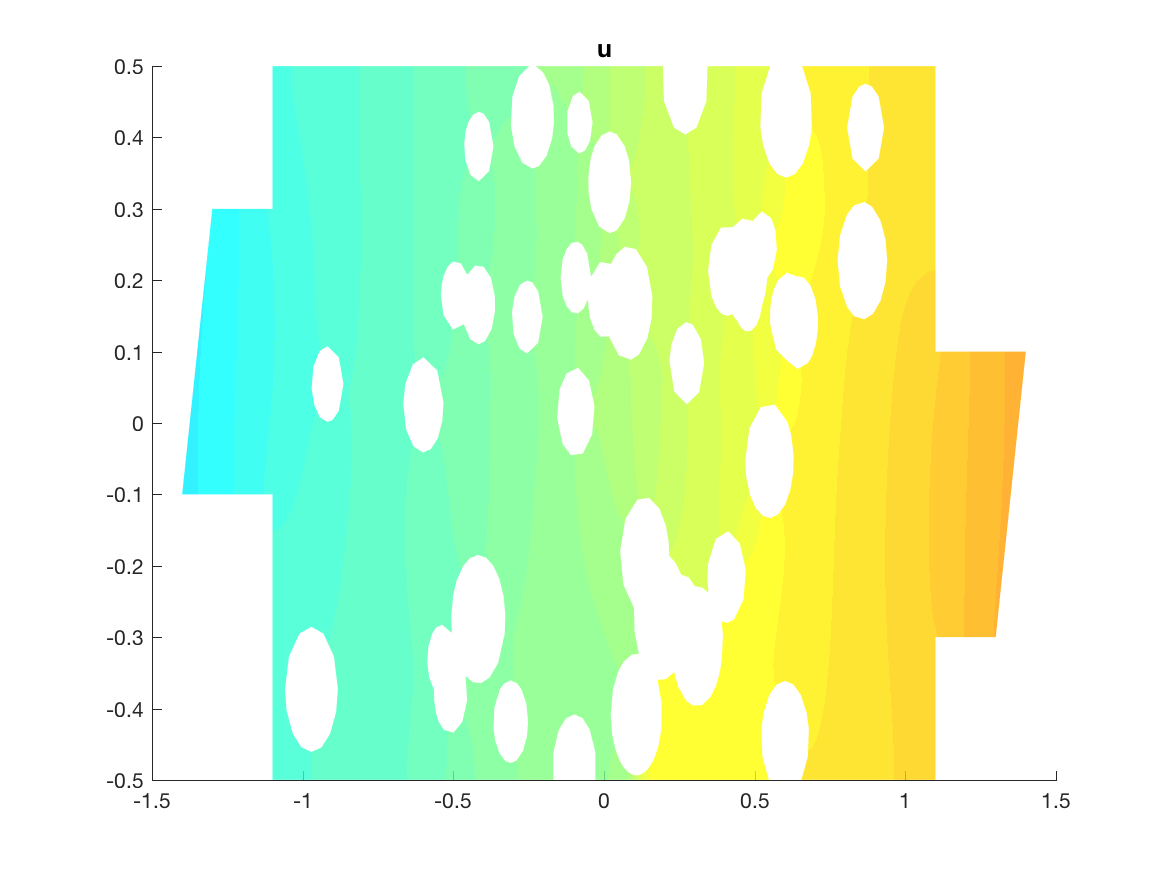
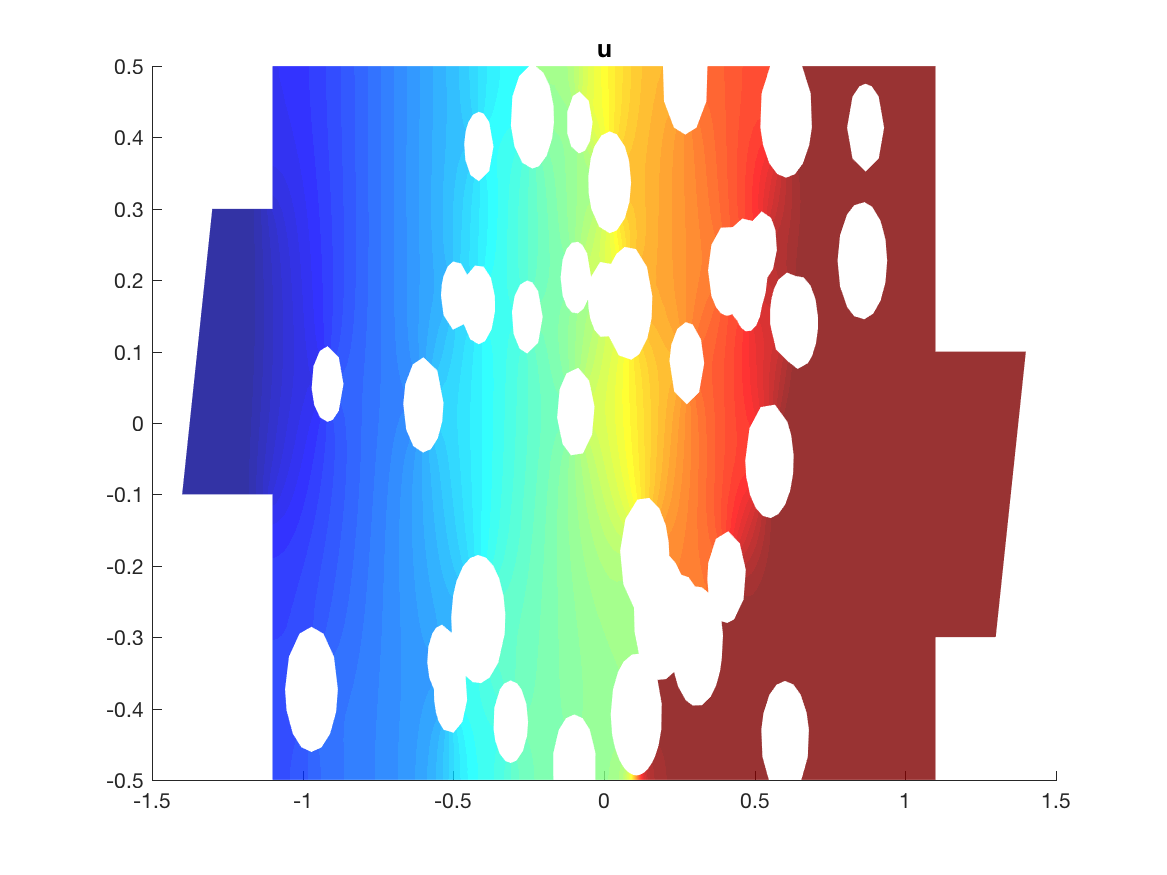
works for quadratic elements quadratic vtk to be finished

diff --git a/Functions_FEM/Neumann.m b/Functions_FEM/Neumann.m
@@ -10,35 +10,29 @@ for j = 1:2
         g = 1;
     end
     if elementDegree ==1
-        for i = 1:(size(Nborder,1)-1)
+        for i = 1:(size(Nborder,1))
             fe = zeros(2,1);
-            X1 = X(Nborder(i),:);
-            X2 = X(Nborder(i+1),:);
-            lengthSide = norm(X2-X1);
+            X1 = X(Nborder(i,1),:);
+            X2 = X(Nborder(i,2),:);
+            
             nIntPoints = 1;
             shapeFun = ShapeFunc1D(elementDegree);
             zgp = shapeFun.zgp; 
             wgp = shapeFun.wgp; 
             N = shapeFun.N; 
             Nxi =shapeFun.Nxi;
-
+            lengthSide = norm(X2-X1);
             Xe = [X1;X2];
-            xe = Xe(:,1); ye = Xe(:,2);
             for ig = 1:length(wgp)
                 N_ig    = N(ig,:);
                 Nxi_ig    = Nxi(ig,:);
-                x_ig = N_ig*Xe;
                 %Jacobian matrix
                 J = lengthSide/2; %Jacobian in 1D             
                 dlength=wgp(ig)*J;
                 fe = fe + g*N_ig'*dlength;
             end
-%             indx = Nborder(i,1):Nborder(i+1,1);
-%             f(indx)= f(indx) + fe;
-            indx1 = Nborder(i,1);
-            indx2 = Nborder(i+1,1);
-            f(indx1)= f(indx1) + fe(1);
-            f(indx2)= f(indx2) + fe(2);
+            indx = Nborder(i,:);
+            f(indx)= f(indx) + fe;
         end
     elseif elementDegree == 2
         for i = 1:length(Nborder)
@@ -60,10 +54,9 @@ for j = 1:2
             for ig = 1:length(wgp)
                 N_ig    = N(ig,:);
                 Nxi_ig    = Nxi(ig,:);
-                x_ig = N_ig*Xe;
                 %Jacobian matrix
-                J = Nxi_ig*Xe(:,1); %Jacobian in 1D             
-                dlength=wgp(ig)*J;
+                J = Nxi_ig*Xe; %Jacobian in 1D  
+                dlength=wgp(ig)*norm(J);
                 fe = fe + g*N_ig'*dlength;
             end
             indx = Nborder(i,:);

diff --git a/mainFEM2D.m b/mainFEM2D.m
@@ -1,6 +1,6 @@
 % Politecnical University of Catalunya
 % Course name: Programming for Engineers and Scientists
-% Students: Raul Bravo Shushu QinArthur Lustman Marina Vilardell
+% Students: Raul Bravo Shushu Qin Arthur Lustman Marina Vilardell
 % Program to solve a Poisson equation problem in a fluid using the FEM 
 % (Finite Element Method)
 % 
@@ -18,11 +18,14 @@ setpath;
 scratchfolder = 'plots' % scratch folder to save the plots
 exID = 1;
 elementType = 1; % elementType: 0 for quadrilateral and 1 for triangles
-elementDegree =1;
+elementDegree =2;
 k = @(x,y) 1-3.95*y^2;
 kk = 99; % 99: function
-
-file_name = 'meshHW1c.mat';
+if elementDegree ==1
+    file_name = 'meshHW1c.mat';
+else 
+    file_name = 'meshHW1cquad.mat';
+end
 load(file_name);
 Example = SetExample(exID,zeroNodes,inflowEdges,outflowEdges,k);
 
@@ -51,15 +54,16 @@ figure(1);
 plotU(elementType,elementDegree,X,T,u); 
 alpha(0.8);
 caxis([-1 1]);
-eval(sprintf('saveas(gcf,''%s/Ufield_k%d_P1.png'')',scratchfolder,kk));
+eval(sprintf('saveas(gcf,''%s/Ufield_k%d_P%d.png'')',scratchfolder,kk,elementDegree));
 % Vector Plot of gradient of u
 figure(2);
 [Xcenter ux uy] = GradU(X,T,RefElement,Example,u);
-PlotMesh(T,X,elementType,'k-');
+
 hold on;
 scalefactor = 0.05;
-plotVector(scalefactor,Xcenter,ux,uy);
-eval(sprintf('saveas(gcf,''%s/vectorGradU_k%d_P1.png'')',scratchfolder,kk));
+ plotVector(scalefactor,Xcenter,ux,uy);
+ PlotMesh(T,X,elementType,'k-');
+eval(sprintf('saveas(gcf,''%s/vectorGradU_k%d_P%d.png'')',scratchfolder,kk,elementDegree));
 
 % write vtk file for paraview
-mat2vtk(u,[ux,uy],T,X);
+mat2vtk(u,[ux,uy],T,X,elementDegree);

diff --git a/Postprocess/mat2vtk.m b/Postprocess/mat2vtk.m
@@ -1,7 +1,7 @@
-function mat2vtk(p,v,T,X)
+function mat2vtk(p,v,T,X,elementDegree)
 % open a vtk file
 example = 'HW2c';
-vtkFile = sprintf('%s.vtk',example);
+vtkFile = sprintf('%s_P%d.vtk',example,elementDegree);
 fileID = fopen (vtkFile, 'w');
 typeMesh = 'VTK_TRIANGLE';
 typeID = 0;

diff --git a/Postprocess/GradU.m b/Postprocess/GradU.m
@@ -39,7 +39,7 @@ for ielem = 1:nelem % Loop in elements
     end
     Xcenter(ielem,1)=sum(xe)/nen;
     Xcenter(ielem,2)=sum(ye)/nen;
-    gradU(ielem,:) = gradUe;
+    gradU(ielem,:) = gradUe/ngaus;
 end
 ux = gradU(:,1);
 uy = gradU(:,2);
